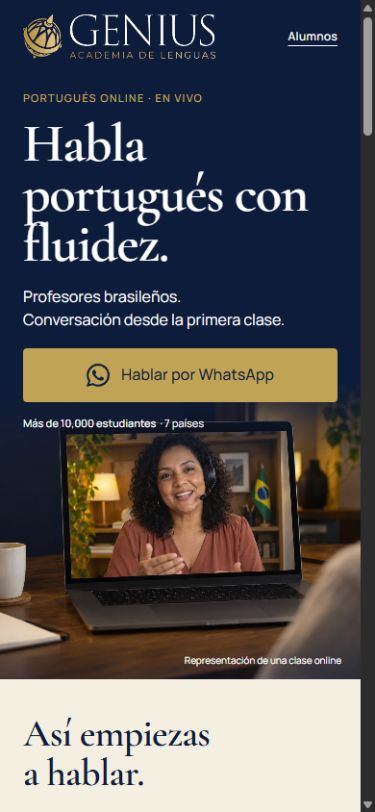
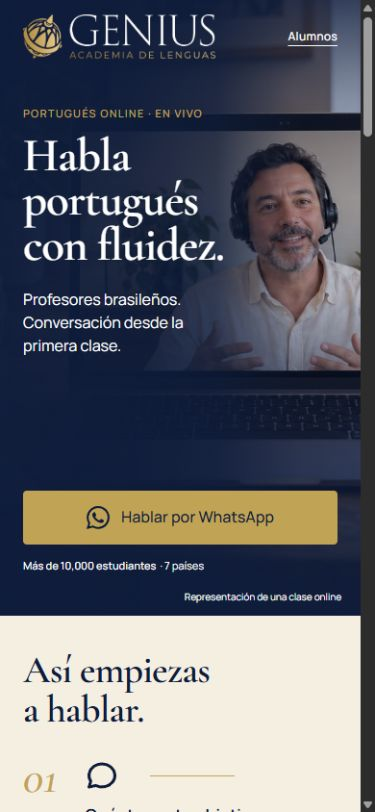
fix: integrar foto ao fundo do hero mobile

diff --git a/public/landing.css b/public/landing.css
@@ -238,22 +238,23 @@ details[open] > summary .icon { transform: rotate(90deg); }
   body { font-size: 16px; }
   .wrap,.catalog-wrap { width: calc(100% - 48px); }
   h2 { font-size: 40px; }
-  .opening { min-height: 0; padding-bottom: 236px; }
+  .opening { min-height: 640px; padding-bottom: 0; }
   .site-header { min-height: 76px; }
   .brand img { width: 200px; }
   .student-link { font-size: 12px; }
-  .class-visual { top: auto; height: 310px; }
-  .class-visual > img { object-position: 85% center; }
-  .class-visual::after { content: ''; position: absolute; inset: 0; background: linear-gradient(180deg,var(--navy),transparent 30%,transparent 85%,rgb(11 28 58 / 35%)); }
+  .class-visual { inset: 0; height: 100%; }
+  .class-visual > img { object-position: 51% center; }
+  .class-visual > img[src$="hero-class-practice.webp"] { object-position: 57% center; }
+  .class-visual::after { content: ''; position: absolute; inset: 0; background: linear-gradient(90deg,rgb(11 28 58 / 97%),rgb(11 28 58 / 94%) 35%,rgb(11 28 58 / 78%) 60%,rgb(11 28 58 / 22%) 82%,rgb(11 28 58 / 12%)),linear-gradient(180deg,rgb(11 28 58 / 80%),rgb(11 28 58 / 30%) 18%,transparent 32%,rgb(11 28 58 / 8%) 48%,rgb(11 28 58 / 75%) 79%,var(--navy)); }
   .class-visual figcaption { z-index: 1; right: 20px; bottom: 12px; font-size: 10px; }
   .hero-motion-toggle:focus-visible { right: 16px; bottom: 36px; }
-  .hero { padding-block: 18px 22px; }
-  .hero-copy { width: 100%; max-width: none; }
+  .hero { display: flex; min-height: 564px; padding-block: 34px 44px; }
+  .hero-copy { display: flex; flex-direction: column; flex: 1; width: 100%; max-width: none; }
   .hero-copy > .label { font-size: 11px; margin-bottom: 12px; }
-  .hero h1 { font-size: clamp(48px,14.3vw,70px); line-height: .94; margin-bottom: 16px; }
-  .hero h1 span { display: inline; }
-  .hero-sub { font-size: 16px; line-height: 1.5; margin-bottom: 18px; }
-  .hero .button { width: 100%; min-height: 54px; font-size: 16px; }
+  .hero h1 { font-size: clamp(44px,12.5vw,54px); line-height: .96; margin-bottom: 20px; }
+  .hero h1 span { display: block; }
+  .hero-sub { max-width: 23ch; font-size: 16px; line-height: 1.5; margin-bottom: 24px; }
+  .hero .button { width: 100%; min-height: 54px; margin-top: auto; font-size: 16px; }
   .hero-proof { margin-top: 14px; font-size: 11px; }
   .hero-how { display: none; }
   .steps { padding-block: 36px 24px; }
@@ -328,9 +329,9 @@ details[open] > summary .icon { transform: rotate(90deg); }
 @media (max-width:359px) {
   .wrap,.catalog-wrap { width: calc(100% - 36px); }
   .brand img { width: 180px; }
-  .opening { padding-bottom: 208px; }
-  .class-visual { height: 272px; }
-  .hero h1 { font-size: 48px; }
+  .opening { min-height: 620px; }
+  .hero { min-height: 544px; }
+  .hero h1 { font-size: 44px; }
   .hero-proof { font-size: 10px; }
   .button { padding-inline: 18px; }
 }

diff --git a/public/inner-pages.css b/public/inner-pages.css
@@ -107,14 +107,14 @@
   .inner-header .student-link { grid-row: 1; grid-column: 2; border: 0; padding-left: 0; }
   .inner-nav { grid-row: 2; grid-column: 1/-1; gap: 24px; }
   .inner-nav a { min-height: 40px; font-size: 13px; }
-  .inner-hero { min-height: 0; padding-bottom: 236px; }
-  .inner-hero-layout { padding-block: 26px 28px; }
+  .inner-hero { min-height: 580px; padding-bottom: 0; }
+  .inner-hero-layout { display: flex; min-height: 580px; padding-block: 36px 56px; }
   .inner-hero .hero-copy { width: 100%; max-width: none; }
-  .inner-hero h1 { font-size: 48px; line-height: 1; margin-bottom: 18px; }
+  .inner-hero h1 { max-width: 10ch; font-size: 48px; line-height: 1; margin-bottom: 18px; }
   .inner-hero .hero-copy > .label { font-size: 10px; margin-bottom: 14px; }
-  .inner-hero-intro { font-size: 16px; line-height: 1.5; margin-bottom: 22px; }
-  .inner-hero .button { min-height: 54px; width: 100%; font-size: 16px; }
-  .inner-hero .class-visual::after { background: linear-gradient(180deg,var(--navy),transparent 30%,transparent 85%,rgb(11 28 58 / 35%)); }
+  .inner-hero-intro { max-width: 20ch; font-size: 16px; line-height: 1.5; margin-bottom: 28px; }
+  .inner-hero .button { min-height: 54px; width: 100%; margin-top: auto; font-size: 16px; }
+  .inner-hero .class-visual::after { background: linear-gradient(90deg,rgb(11 28 58 / 97%),rgb(11 28 58 / 94%) 35%,rgb(11 28 58 / 78%) 60%,rgb(11 28 58 / 22%) 82%,rgb(11 28 58 / 12%)),linear-gradient(180deg,rgb(11 28 58 / 80%),rgb(11 28 58 / 30%) 18%,transparent 32%,rgb(11 28 58 / 8%) 48%,rgb(11 28 58 / 75%) 79%,var(--navy)); }
   .inner-facts > .wrap { grid-template-columns: repeat(2,1fr); gap: 24px 16px; padding-block: 28px; }
   .inner-facts .wrap > div,.inner-facts .wrap > div:first-child { padding: 0; border: 0; }
   .inner-facts strong { font-size: 28px; }
@@ -143,7 +143,7 @@
 }
 @media (max-width:359px) {
   .inner-header .brand img { width: 175px; }
-  .inner-hero { padding-bottom: 208px; }
+  .inner-hero,.inner-hero-layout { min-height: 560px; }
   .inner-hero h1 { font-size: 42px; }
 }
 @media (prefers-reduced-motion:reduce) { .feature-card:hover { transform: none; } }

diff --git a/public/sobre-nos.html b/public/sobre-nos.html
@@ -39,8 +39,8 @@
   <link rel="preconnect" href="https://fonts.googleapis.com">
   <link rel="preconnect" href="https://fonts.gstatic.com" crossorigin>
   <link href="https://fonts.googleapis.com/css2?family=Cormorant+Garamond:ital,wght@0,500;0,600;1,500&amp;family=Manrope:wght@400;500;600&amp;display=swap" rel="stylesheet">
-  <link rel="stylesheet" href="landing.css">
-  <link rel="stylesheet" href="inner-pages.css">
+  <link rel="stylesheet" href="landing.css?v=bea1b51ead">
+  <link rel="stylesheet" href="inner-pages.css?v=b949d8273f">
   <link rel="stylesheet" href="about-page.css">
   <script src="landing.js" defer></script>
   <script src="hero-gallery.js" defer></script>

diff --git a/public/metodologia.html b/public/metodologia.html
@@ -39,8 +39,8 @@
   <link rel="preconnect" href="https://fonts.googleapis.com">
   <link rel="preconnect" href="https://fonts.gstatic.com" crossorigin>
   <link href="https://fonts.googleapis.com/css2?family=Cormorant+Garamond:ital,wght@0,500;0,600;1,500&amp;family=Manrope:wght@400;500;600&amp;display=swap" rel="stylesheet">
-  <link rel="stylesheet" href="landing.css">
-  <link rel="stylesheet" href="inner-pages.css">
+  <link rel="stylesheet" href="landing.css?v=bea1b51ead">
+  <link rel="stylesheet" href="inner-pages.css?v=b949d8273f">
   <script src="landing.js" defer></script>
   <script src="hero-gallery.js" defer></script>
 </head>

diff --git a/public/index.html b/public/index.html
@@ -40,7 +40,7 @@
   <link rel="preconnect" href="https://fonts.googleapis.com">
   <link rel="preconnect" href="https://fonts.gstatic.com" crossorigin>
   <link href="https://fonts.googleapis.com/css2?family=Cormorant+Garamond:ital,wght@0,500;0,600;1,500&amp;family=Manrope:wght@400;500;600&amp;display=swap" rel="stylesheet">
-  <link rel="stylesheet" href="landing.css">
+  <link rel="stylesheet" href="landing.css?v=bea1b51ead">
   <script src="landing.js" defer></script>
   <script src="hero-gallery.js" defer></script>
   <script type="application/ld+json">

diff --git a/docs/hero-gallery.md b/docs/hero-gallery.md
@@ -14,11 +14,23 @@ A foto inicial continua prioritária; as demais carregam depois dela e só apare
 
 As imagens são representações geradas com a ferramenta embutida. A legenda existente foi preservada. Os [prompts completos e arquivos](hero-gallery-images.md) registram a procedência.
 
+## Composição mobile
+
+A imagem ocupa o fundo inteiro do hero até 767 px, com degradê navy lateral e na base. O título e a introdução ficam à esquerda; o professor aparece ao lado do conteúdo e o CTA ocupa a base. Os recortes compartilham o mesmo enquadramento entre as cenas, com ajuste específico para a terceira foto. As páginas internas seguem a mesma composição. O desktop mantém o layout anterior.
+
+| Before | After | Why |
+| --- | --- | --- |
+| Foto de 310 px abaixo do texto, com espaço reservado no fim do hero | Foto integrada ao fundo inteiro | Eliminar a impressão de duas seções empilhadas |
+| Texto ocupando toda a largura | Título e introdução mais estreitos no mobile | Manter leitura e rosto visíveis ao mesmo tempo |
+| CTA acima da foto separada | CTA na base sobre navy | Integrar a ação à composição e manter contraste |
+
+Os links dos dois estilos incluem versões calculadas a partir do conteúdo para evitar que o navegador misture o layout novo com CSS anterior em cache.
+
 ## Verificação
 
 Validação: 18 suítes e 211 testes aprovados, incluindo 15 casos da galeria; `git diff --check` limpo.
 
-Os testes executam o JavaScript real com temporizadores, aleatoriedade controlada, preferências de movimento, visibilidade e carregamentos atrasados ou com falha. A conferência no navegador cobre alternância automática, ausência dos controles visíveis e recortes no desktop e no mobile.
+Os testes executam o JavaScript real com temporizadores, aleatoriedade controlada, preferências de movimento, visibilidade e carregamentos atrasados ou com falha. A conferência no navegador cobre alternância automática, ausência dos controles visíveis e recortes no desktop e no mobile. O ajuste visual mobile foi conferido em 320, 390 e 430 px nas três páginas, incluindo fotos diferentes durante a reprodução; desktop conferido em 1440 px. Essa alteração de CSS não modifica o JavaScript da galeria.
 
 ![Hero no desktop sem controles visíveis](images/hero-gallery-desktop.jpg)
 

diff --git a/docs/landing-page.md b/docs/landing-page.md
@@ -38,6 +38,8 @@ Nas três páginas, o hero funciona como uma sequência de fundo: as três cenas
 
 A reprodução é suspensa quando a aba fica oculta ou o hero sai da tela. Há uma pausa acessível por Escape ou por um botão que aparece somente ao receber foco pelo teclado. Com movimento reduzido, a galeria usa uma troca mais espaçada (dez segundos) e somente opacidade por 400 ms, sem zoom ou deslocamento.
 
+No mobile, a foto ocupa o fundo inteiro do hero e se integra ao navy por degradês. Título e introdução ficam à esquerda, professor ao lado e CTA na base. O ajuste se aplica também às páginas internas; o desktop conserva sua composição.
+
 A primeira foto continua prioritária e funciona sem JavaScript. As outras só começam a carregar após a primeira; uma foto apenas substitui a atual quando estiver carregada e decodificada. Falhas preservam a foto visível. [Prompts e procedência das novas imagens](hero-gallery-images.md).
 
 ## Metadados e compatibilidade
